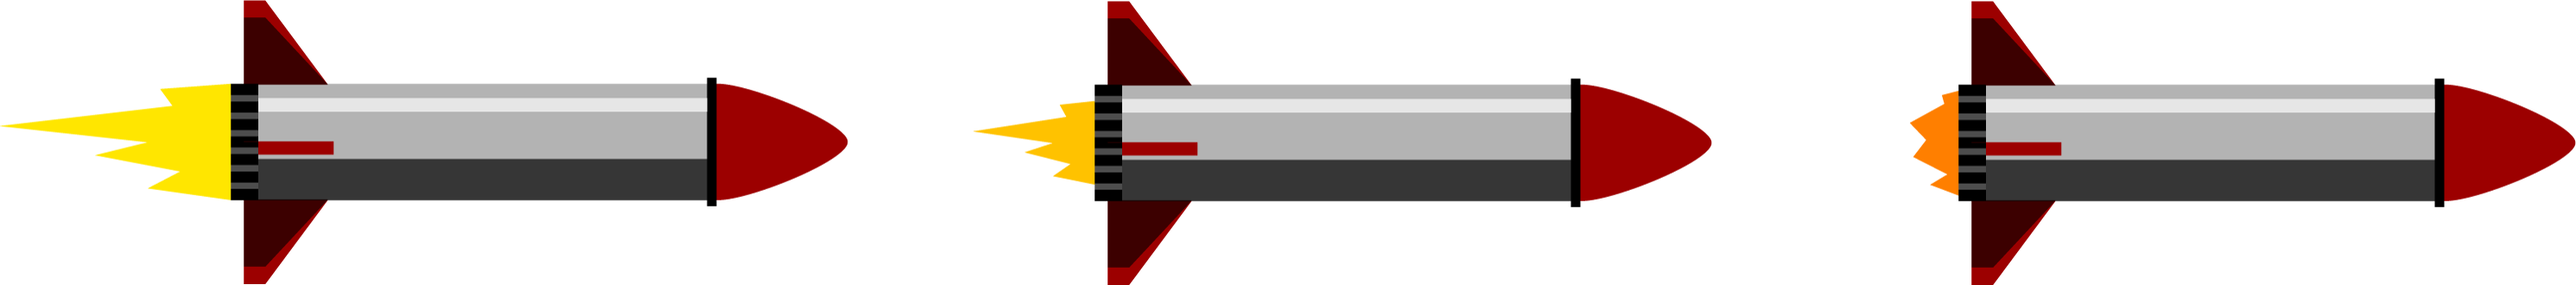
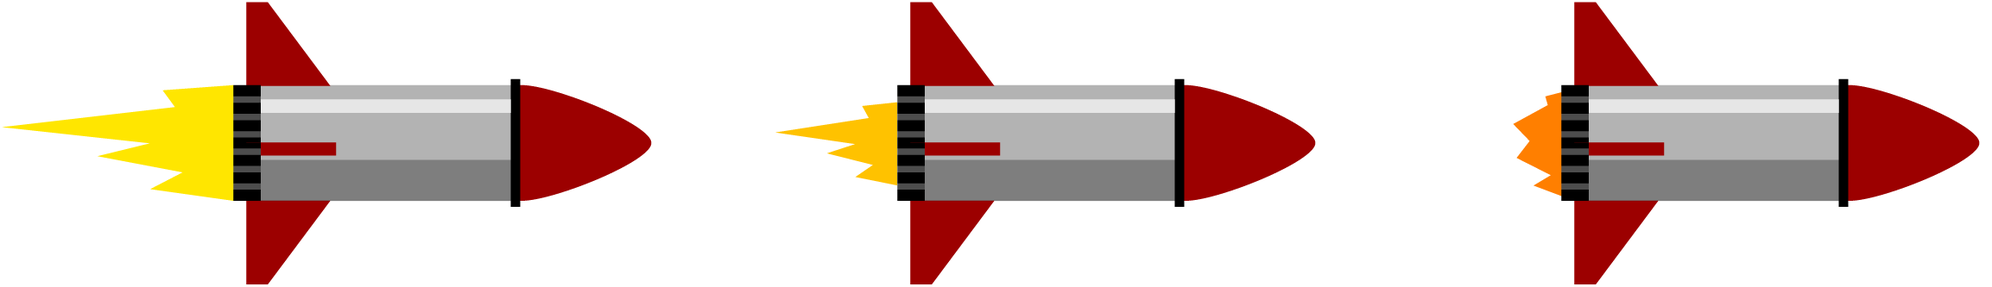
change the missile sprite to be smaller and shorter

diff --git a/src/states/game.js b/src/states/game.js
@@ -21,7 +21,7 @@ gameState.prototype = {
 
     preload: function () {
         this.game.load.spritesheet('fireball', 'assets/prod/effects/fireball.png', 53, 32);
-        this.game.load.spritesheet('missile', 'assets/prod/effects/missile.png', 165, 36);
+        this.game.load.spritesheet('missile', 'assets/prod/effects/missile.png', 84, 36);
         this.game.load.spritesheet('invader', 'assets/example/invader32x32x4.png', 64, 64);
         this.game.load.spritesheet('kaboom', 'assets/prod/effects/explosion.png', 512, 512, 8);
 
